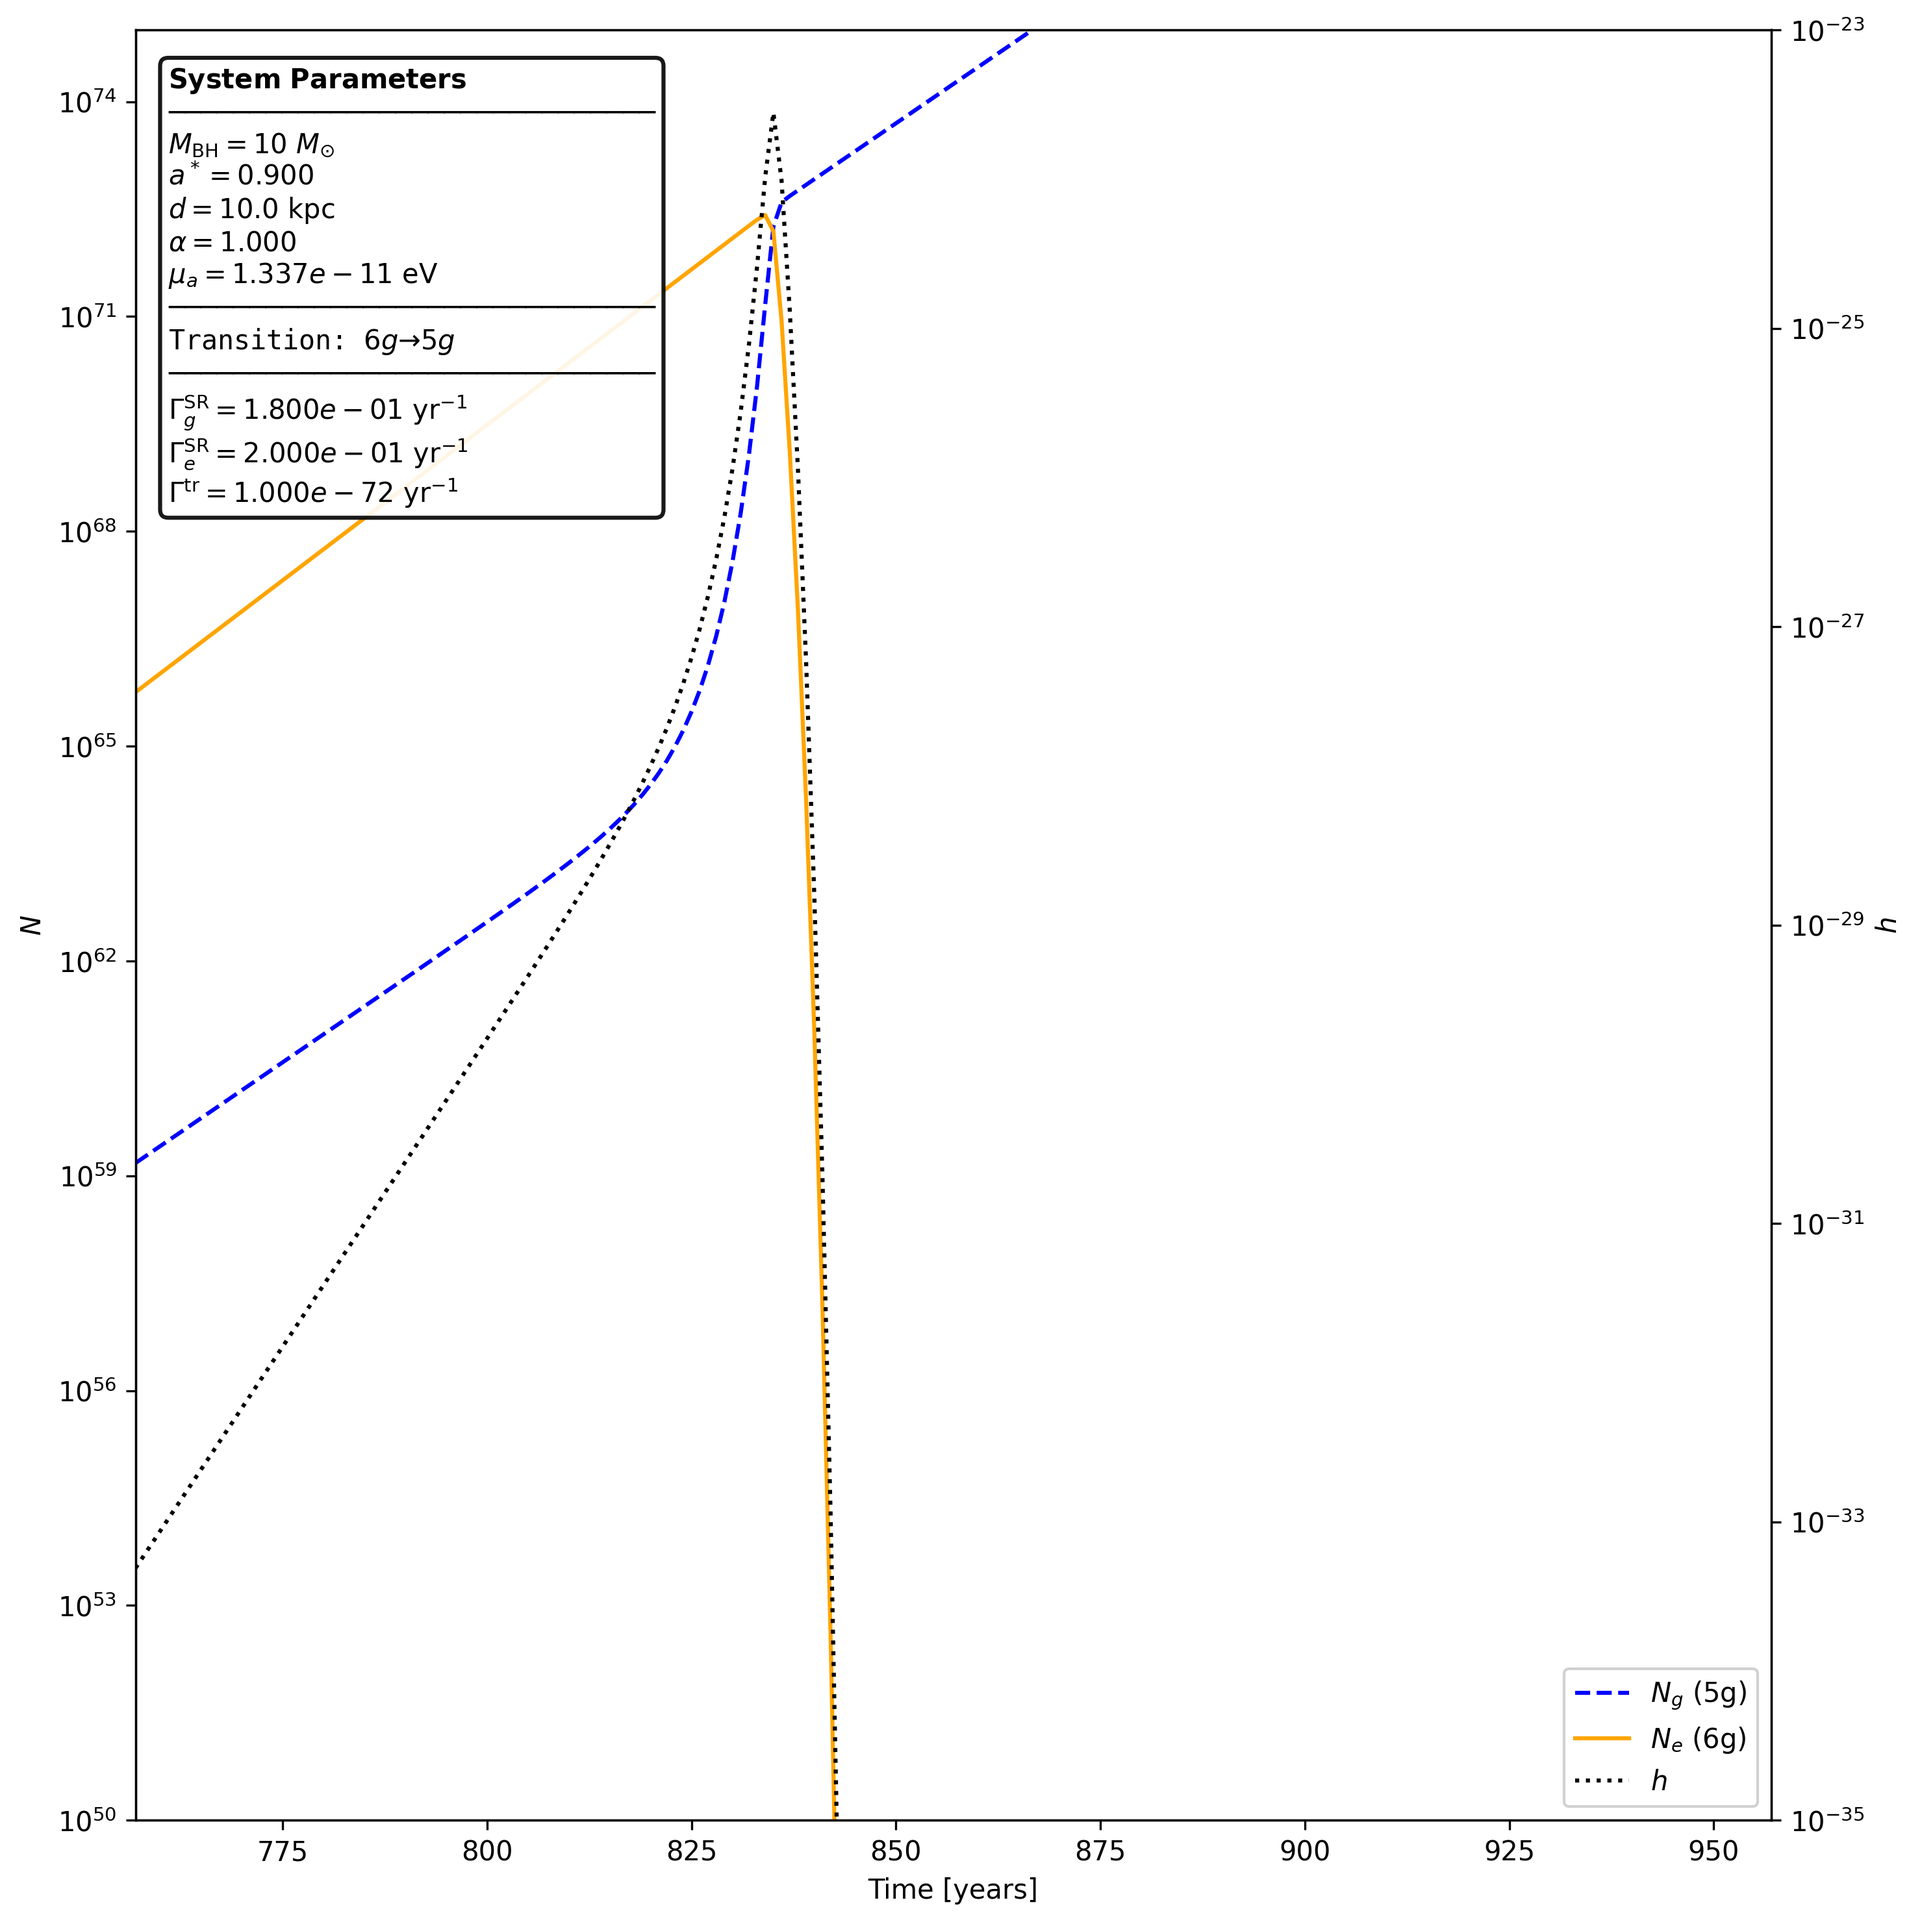
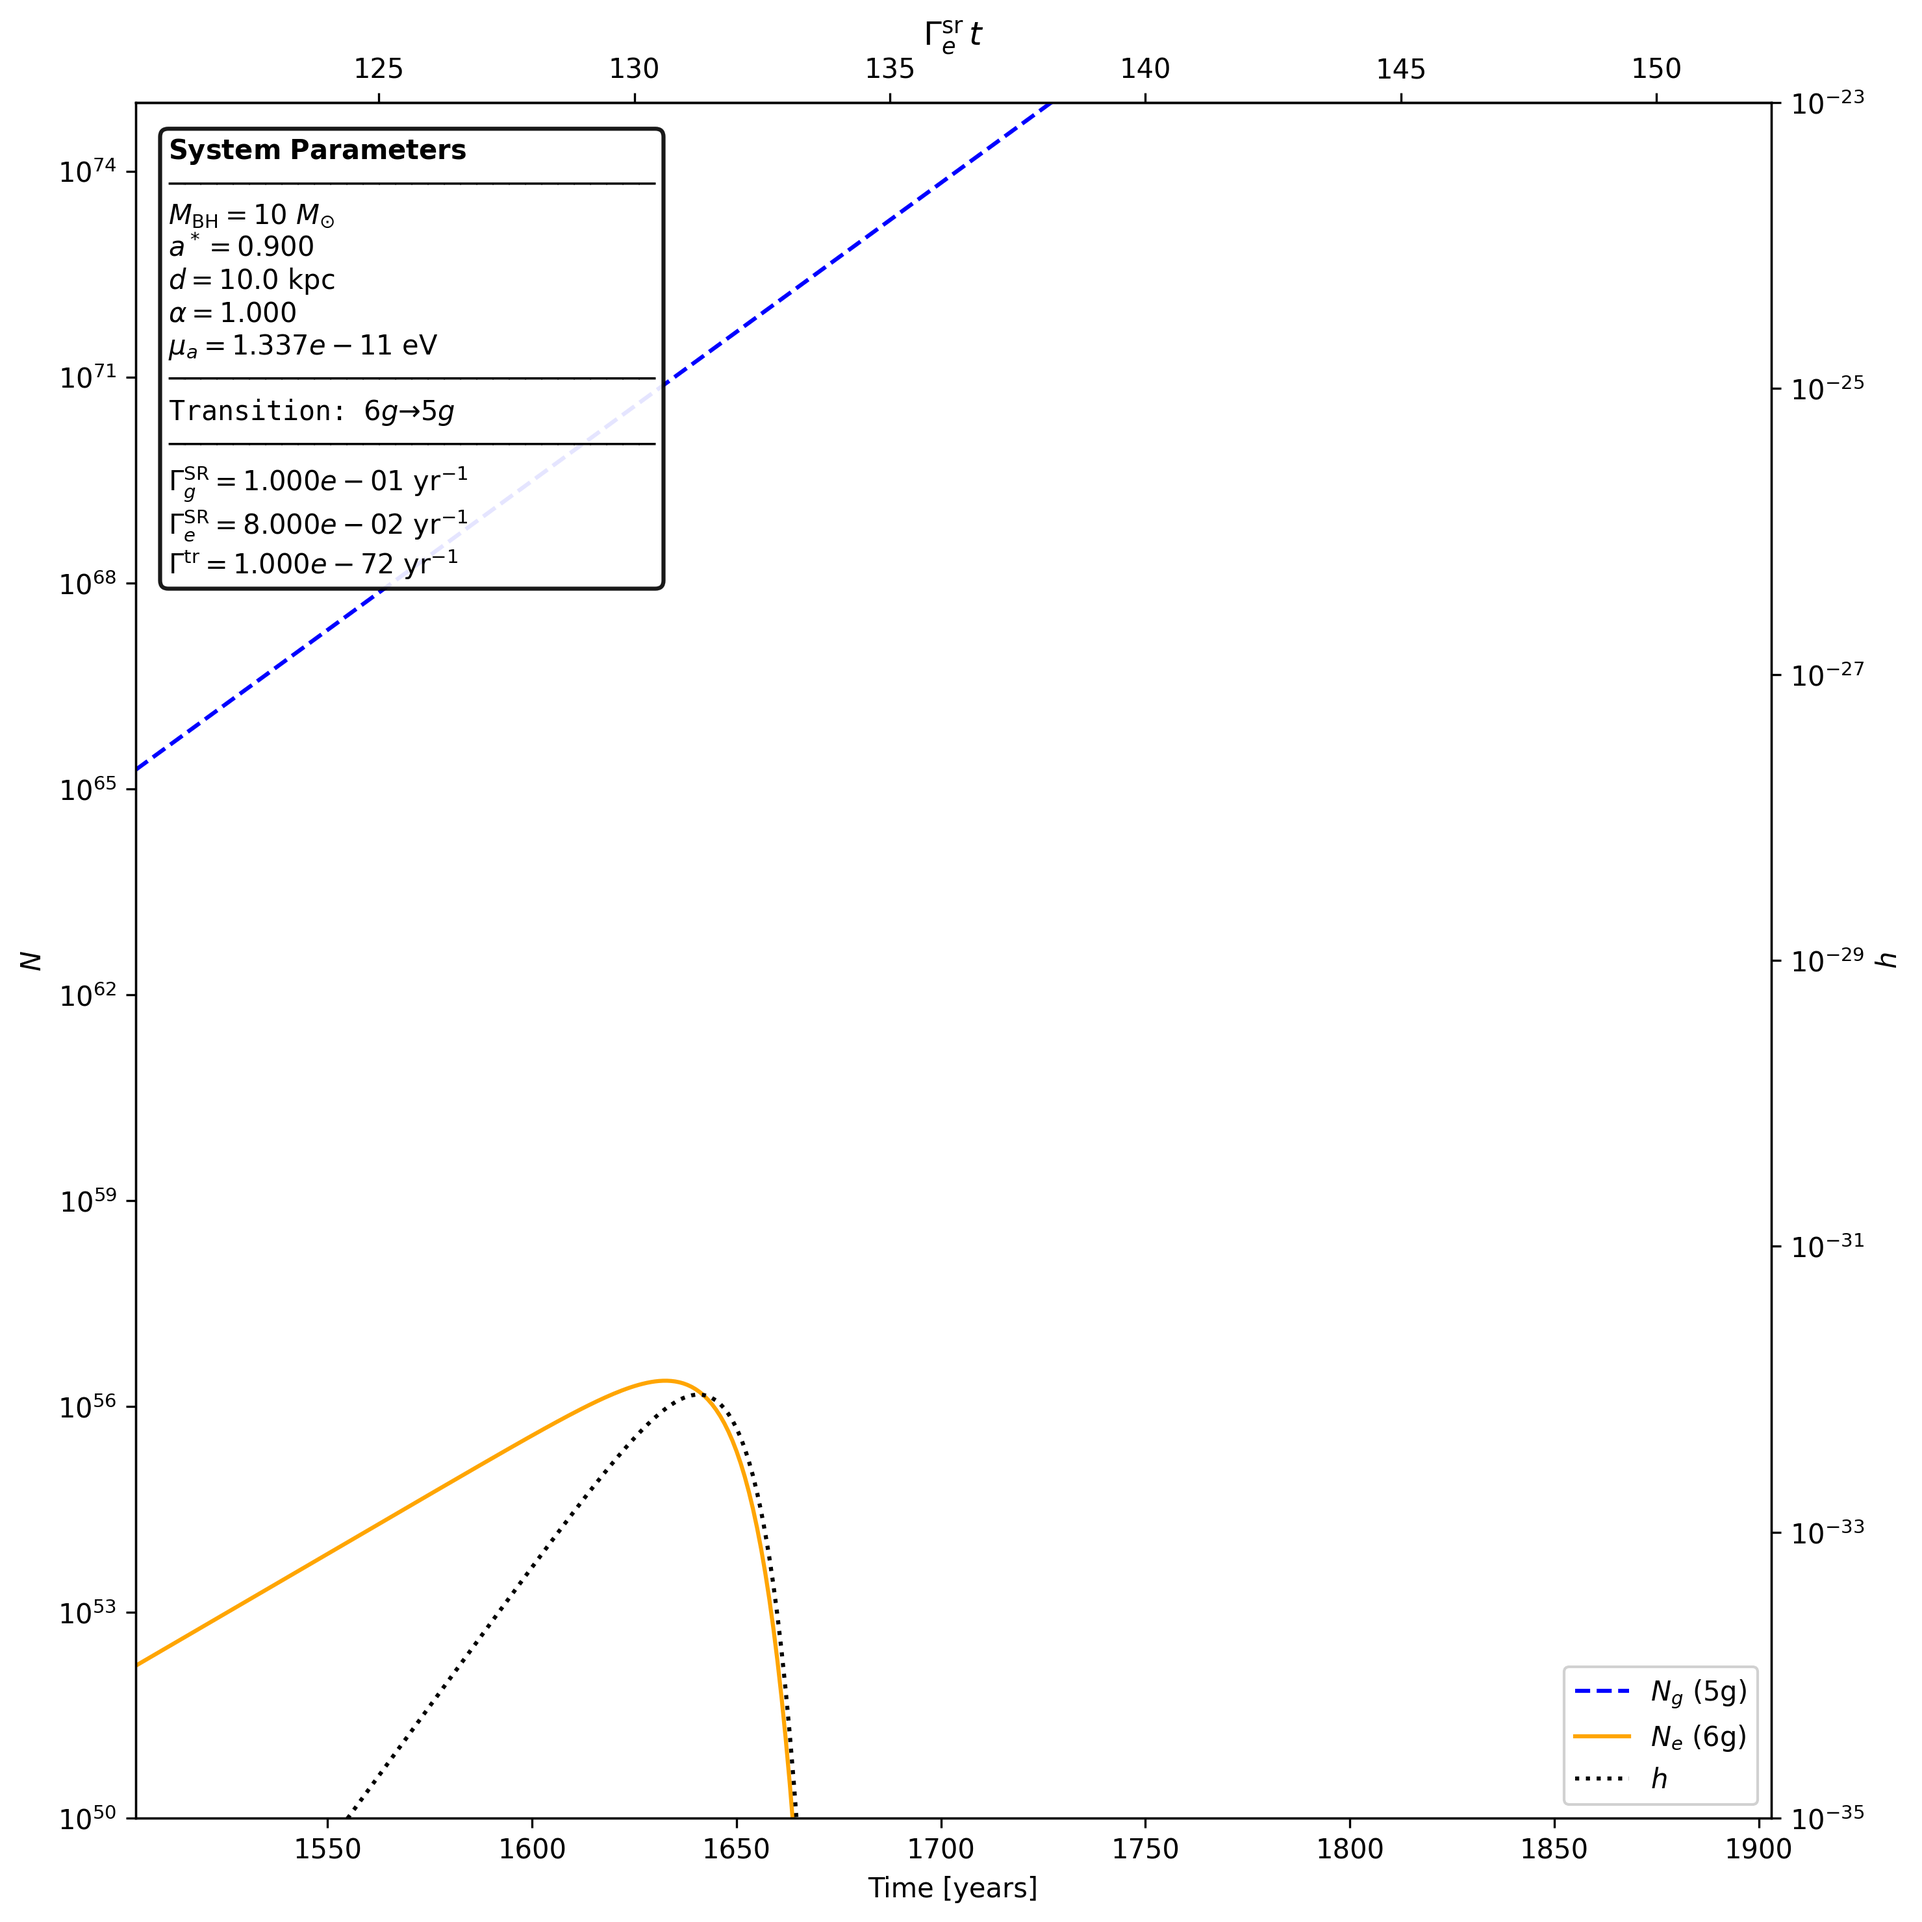
Merge

diff --git a/scripts/EvolutionOfLevelTransitions.py b/scripts/EvolutionOfLevelTransitions.py
@@ -213,7 +213,7 @@ def plot_results(results):
     # Detect collapse of N_e (minimum)
     collapse_index = np.argmin(num_e)
     collapse_time = times[collapse_index]
-    timewindow = 100 # [years]
+    timewindow = 200 # [years]
     xlim = (max(0, collapse_time - timewindow), collapse_time + timewindow)
 
     print(f"Excited-state population collapse at ~{collapse_time:.2f} years.")
@@ -230,6 +230,13 @@ def plot_results(results):
     ax1.set_xlabel("Time [years]")
     ax1.set_ylim(1e50, 1e75)
     ax1.set_xlim(xlim)
+
+    # Add secondary x-axis at top showing dimensionless time
+    ax_top = ax1.secondary_xaxis('top', functions=(
+        lambda t: params['gamma_e'] * t,  # Convert time to gamma_e * t
+        lambda gamma_t: gamma_t / params['gamma_e']  # Convert back
+    ))
+    ax_top.set_xlabel(r'$\Gamma^{\rm sr}_e \, t$', fontsize=12)
 
     ax2 = ax1.twinx()
     line3 = ax2.plot(times, h, label=r'$h$', color='black', linestyle="dotted")
@@ -285,5 +292,7 @@ if __name__ == "__main__":
         transition_rate_override=1e-72, 
         alpha=1,
         bh_spin=0.9,
+        gamma_e_override=0.08,
+        gamma_g_override=0.1
     )
     plot_results(results)
